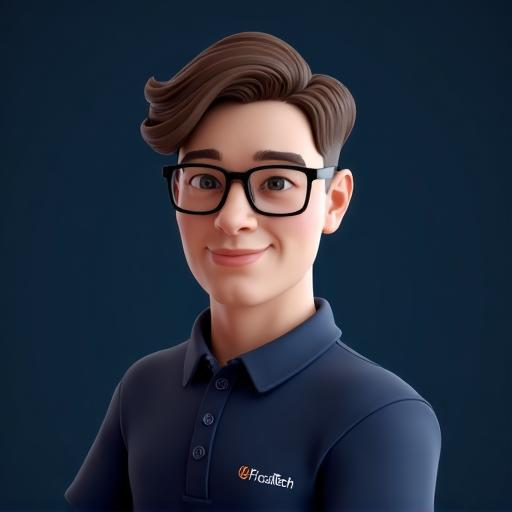
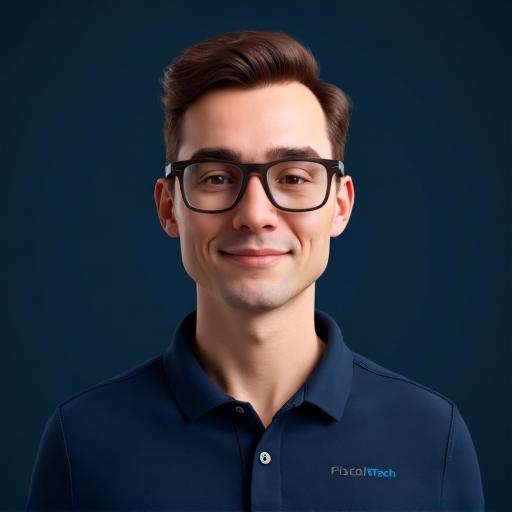
Refactor login screen
Update login screen text to "Max Seu Assistente Virtual na Fiscaltech".
Adjust avatar to appear as a 35-year-old man, facing forward.

Changed region(s): [[0.0938, 0.0625, 0.9688, 1.0], [0.3125, 0.875, 0.4375, 1.0]]

diff --git a/src/pages/Auth.tsx b/src/pages/Auth.tsx
@@ -43,14 +43,14 @@ export default function Auth() {
             <div className="w-20 h-20 rounded-full overflow-hidden bg-primary/10 flex items-center justify-center">
               <img 
                 src={maxAvatar} 
-                alt="Max - Assistente Virtual da Fiscaltech" 
+                alt="Max - Seu Assistente Virtual na Fiscaltech" 
                 className="w-full h-full object-cover"
               />
             </div>
           </div>
           <CardTitle className="text-2xl font-bold">Max</CardTitle>
           <CardDescription>
-            Assistente Virtual da Fiscaltech
+            Seu Assistente Virtual na Fiscaltech
           </CardDescription>
         </CardHeader>
         <CardContent>
